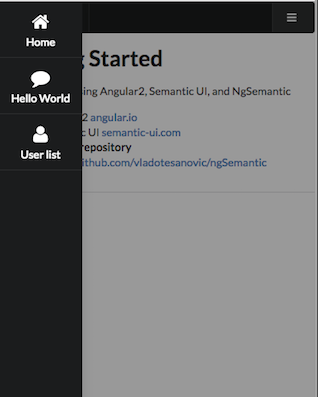
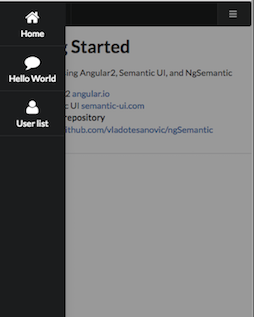
Update README

diff --git a/README.md b/README.md
@@ -2,7 +2,9 @@
 
 This project was generated with [angular-cli](https://github.com/angular/angular-cli) version 1.0.0-beta.24.
 
+### On desktop
 ![Image on Desktop](images/desktop.png)
+### On mobile (with sidebar)
 ![Image on Mobile](images/mobile.png)
 
 ## Prerequisites
